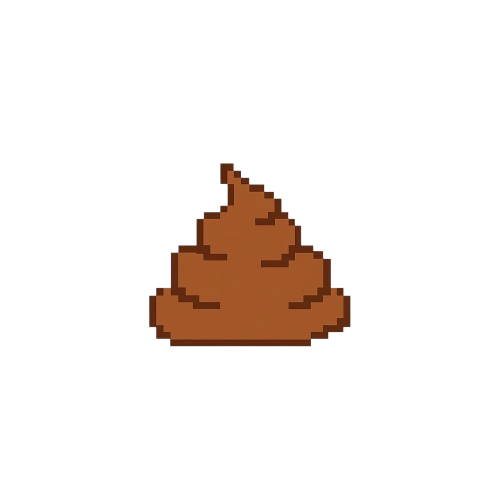
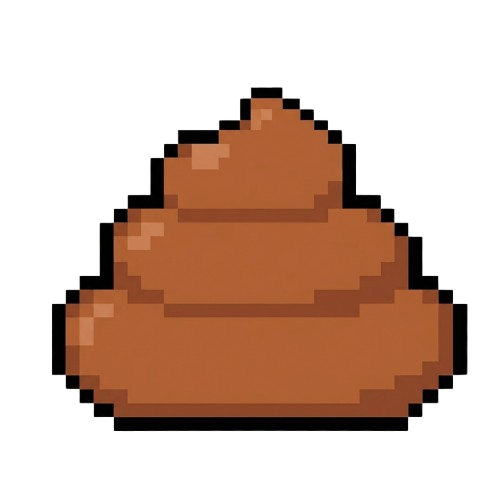
refactor: 똥 이미지 에셋 교체 및 가구 위치 수정

diff --git a/fe/doitdo/lib/presentation/pages/tamagochi/widgets/room_layer.dart b/fe/doitdo/lib/presentation/pages/tamagochi/widgets/room_layer.dart
@@ -161,7 +161,7 @@ class RoomLayer extends ConsumerWidget {
                     //   0.50  = brush 바닥이 똥 중앙 (정중앙 sweep)
                     //   1.00  = brush 바닥이 똥 꼭대기 (위에 떠있는 인상)
                     final brushOffsetX = (poopSizeRatio - brushSizeRatio) / 2;
-                    final brushLiftY = poopSizeRatio * 0.10;
+                    final brushLiftY = poopSizeRatio * 0.05;
                     final brushLeft = poopLeft + brushOffsetX;
                     final brushBottom = poopBottom + brushLiftY;
                     return [
